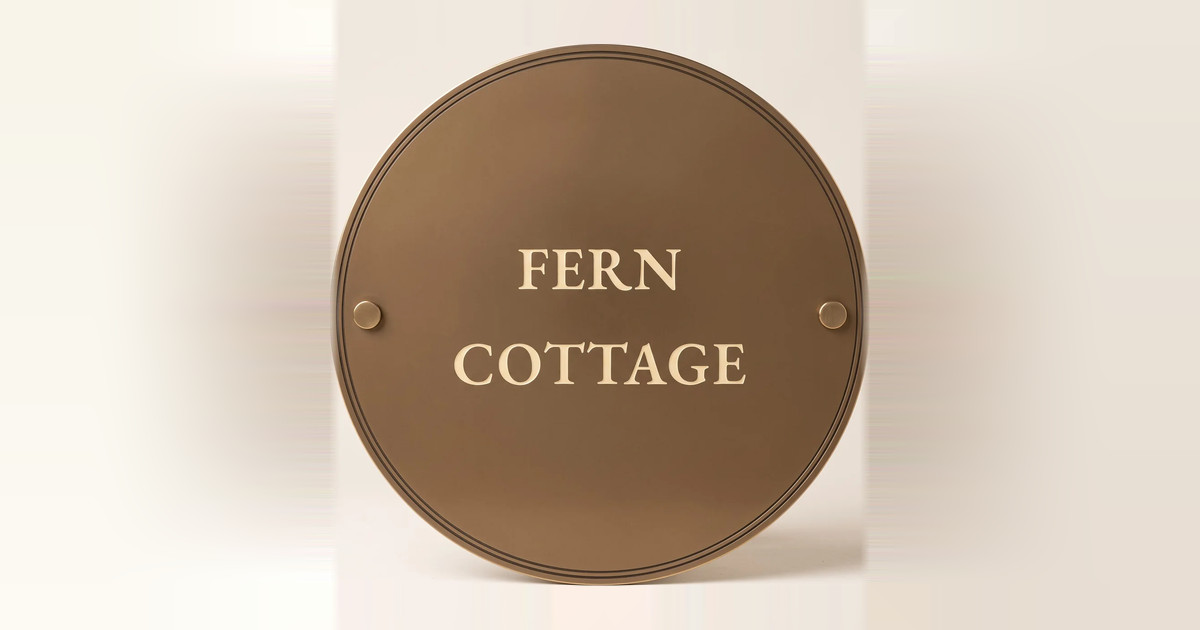
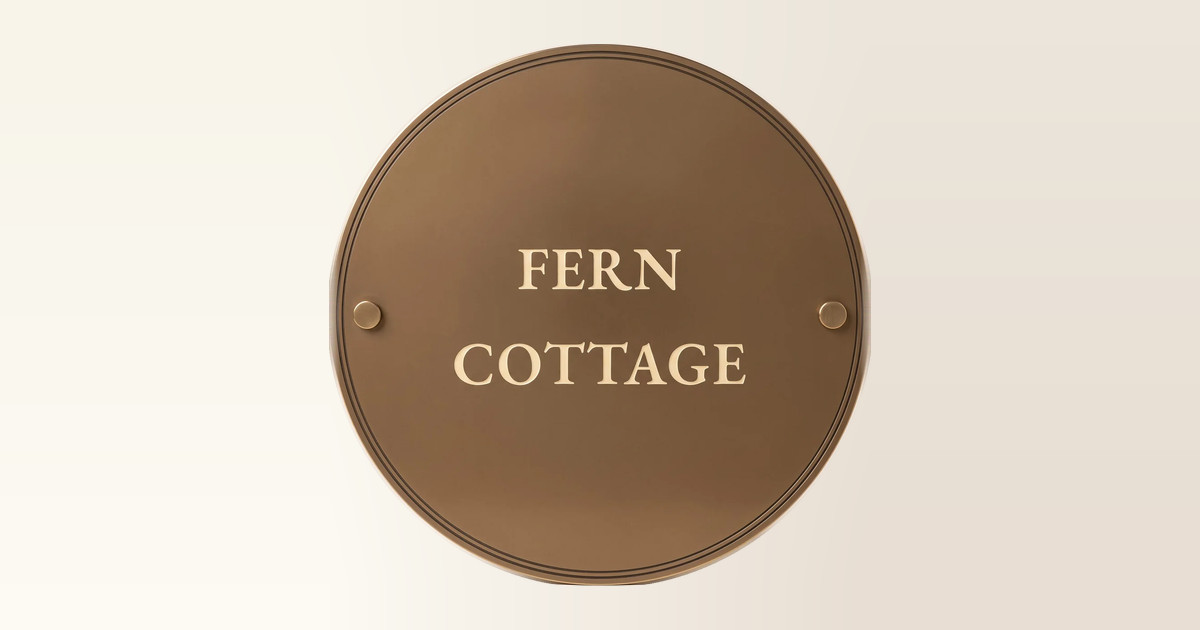
fix: remove source-frame seams from two circle share photos

Changed region(s): [[0.555, 0.2413, 0.8325, 0.9349], [0.1542, 0.2111, 0.3083, 0.8143], [0.37, 0.8746, 0.4625, 0.9349]]

diff --git a/scripts/serp-studio/check-seams.py b/scripts/serp-studio/check-seams.py
@@ -1,0 +1,46 @@
+# Read-only: measure the tone step at each padded OG's source-frame boundary.
+import json, sys
+import numpy as np
+from PIL import Image
+exp = sys.argv[1]
+# These exact circle bottoms intersect the original plate silhouette.
+# Reviewed at 100% in Amendment 4; no side/background exception is allowed.
+exceptions = {
+    ('brushed-brass-200x200-circle-plaque', 'B'),
+    ('brushed-stainless-200x200-circle-plaque', 'B'),
+    ('polished-brass-200x200-circle-plaque', 'B'),
+}
+failures = []
+man = json.load(open(f'{exp}/manifest.json'))
+rows = []
+for r in man:
+    if r.get('version') != 'og' or r.get('treatment') != 'pad':
+        continue
+    a = np.asarray(Image.open(f"{exp}/{r['file']}").convert('L'), dtype=np.float32)
+    H, W = a.shape
+    x, y, w, h = r['sourceFrame']
+    res = {}
+    # vertical boundaries: compare 3-px strips just outside vs just inside, per row, inside the frame's rows
+    def vstep(xo, xi):
+        o = a[y:y+h, xo-1:xo+2].mean(axis=1); i = a[y:y+h, xi-1:xi+2].mean(axis=1)
+        d = np.abs(o - i)
+        return float(np.percentile(d, 75))
+    def hstep(yo, yi):
+        o = a[yo-1:yo+2, x:x+w].mean(axis=0); i = a[yi-1:yi+2, x:x+w].mean(axis=0)
+        return float(np.percentile(np.abs(o - i), 75))
+    if x >= 4: res['L'] = vstep(x-3, x+2)
+    if x+w <= W-4: res['R'] = vstep(x+w+2, x+w-3)
+    if y >= 4: res['T'] = hstep(y-3, y+2)
+    if y+h <= H-4: res['B'] = hstep(y+h+2, y+h-3)
+    for side, value in res.items():
+        if value > 2.0 and (r['slug'], side) not in exceptions:
+            failures.append((r['slug'], side, value))
+    worst = max(res.values()) if res else 0
+    rows.append((worst, r['slug'], {k: round(v, 1) for k, v in res.items()}))
+rows.sort(reverse=True)
+for worst, slug, res in rows:
+    print(f'{worst:5.1f} {slug} {res}')
+
+assert len(rows) == 166, f'Expected all 166 padded OGs, got {len(rows)}'
+assert not failures, f'Source-frame seams above 2.0: {failures}'
+print('PASS: 166 padded OGs; threshold 2.0; only three reviewed circle-bottom plate crossings excepted')

diff --git a/scripts/serp-studio/export.py b/scripts/serp-studio/export.py
@@ -45,13 +45,21 @@ def padded(im,size,slug):
   mix=np.where((dy[select]>=dx[select])[:,None],horizontal,vertical)
   blend=np.clip(dist[select]/240,0,1)[:,None];blend=blend*blend*(3-2*blend)
   bg[select]=mix*(1-blend)+bg[select]*blend
- if slug=='brushed-brass-200x200-circle-plaque':
-  # The selected alternative is tangent to its square source at top/bottom.
-  # Preserve its complete brass silhouette, and continue one smooth backdrop behind it.
+ if slug in {'brushed-brass-200x200-circle-plaque','aged-brass-200x200-circle-plaque','polished-stainless-200x200-circle-plaque'}:
+  # These circles are tangent to their square source at top/bottom.
+  # Preserve each complete silhouette over one smooth backdrop.
   from scipy.ndimage import binary_fill_holes,binary_dilation,label
-  foreground=(a[:,:,0]-a[:,:,2]>42)|(a.mean(axis=2)<130)
-  labels,count=label(foreground);sizes=np.bincount(labels.ravel());sizes[0]=0
-  mask=binary_dilation(binary_fill_holes(labels==sizes.argmax()),iterations=5)
+  if slug=='brushed-brass-200x200-circle-plaque':
+   foreground=(a[:,:,0]-a[:,:,2]>42)|(a.mean(axis=2)<130)
+   labels,count=label(foreground);sizes=np.bincount(labels.ravel());sizes[0]=0
+   mask=binary_dilation(binary_fill_holes(labels==sizes.argmax()),iterations=5)
+  else:
+   # These two 1200-square originals have a complete, centred circle tangent
+   # to the frame. A geometric silhouette also retains bright silver, unlike
+   # the warm/dark colour classifier. Five source pixels of protective bleed
+   # preserve the rim, antialiasing and both fixings; never crop or enlarge it.
+   my,mx=np.mgrid[:im.height,:im.width]
+   mask=((mx-im.width/2)/(im.width/2+5))**2+((my-im.height/2)/(im.height/2+5))**2<=1
   alpha=np.asarray(Image.fromarray((mask*255).astype('uint8')).resize((nw,nh),Image.Resampling.LANCZOS)).astype(float)[...,None]/255
   # Bilinear backdrop is continuous across all four source boundaries.
   bg=(corners[0]*(1-tx)+corners[1]*tx)*(1-ty)+(corners[2]*(1-tx)+corners[3]*tx)*ty

diff --git a/docs/serp-studio-images-2026-11-10.md b/docs/serp-studio-images-2026-11-10.md
@@ -66,3 +66,19 @@ Part A application commits together (including new guard and assets); the
 separate documentation commit may remain. No database or feed migration exists.
 Google still needs to re-crawl the two URLs; Cody can provide Request indexing
 steps after go-live. Metadata guides, but does not guarantee, Google's thumbnail.
+
+## Circle seam follow-up (Amendment 4)
+
+Only the aged-brass and polished-stainless 200 mm circle OGs were re-exported.
+A source-centred geometric circle with five source pixels of protective bleed
+retains the complete silhouette (including bright silver and both fixings) over
+one continuous corner-sampled backdrop. Scale is unchanged; no enlargement or
+cropping. All other shipped bytes stay unchanged.
+
+Run `python3 -I scripts/serp-studio/check-seams.py OUTPUT_DIRECTORY` locally
+after exporting. It applies Cody's 75th-percentile, 3-pixel-strip seam scan to
+all 166 padded OGs; every L/R/T/B side must be <=2.0 luminance units except
+the three explicitly reviewed circle-bottom plate crossings (brushed brass,
+brushed stainless and polished brass). No left/right exception is allowed.
+The gate needs Pillow and NumPy, like the exporter; it is an artwork-release
+gate rather than a Python dependency in Vercel's Node postbuild environment.
